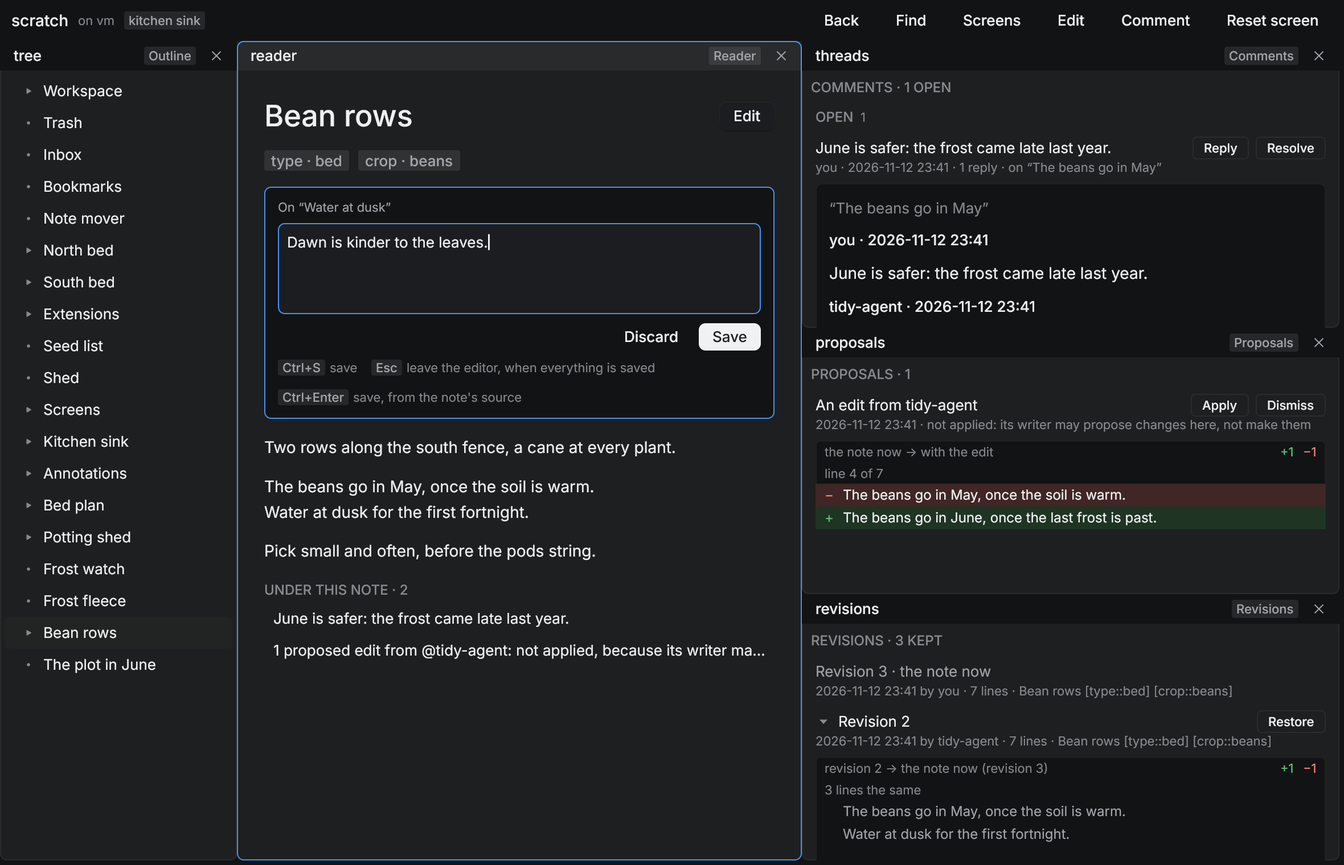
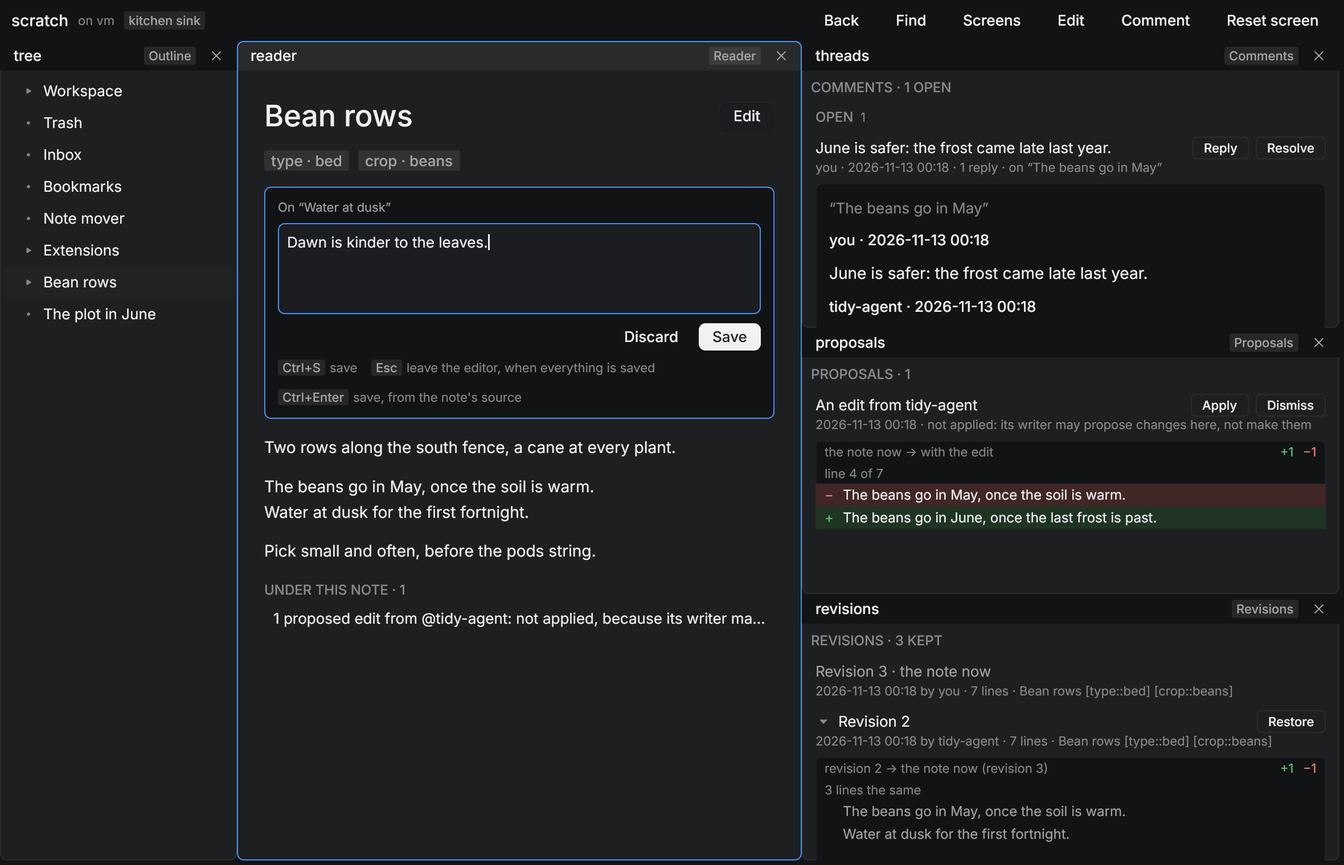
native: the screen-keys scene and its picture; the pages say what the key table reads now
Claude-Session: https://claude.ai/code/session_01YahWSsU53UQFjh3cbq4VFn

diff --git a/packages/native/scenes/about.seed.ts b/packages/native/scenes/about.seed.ts
@@ -4,6 +4,7 @@
 //
 // - "Bean rows": a note with a history (three texts), a comment thread on words of it with a reply, and an edit an
 //   agent proposed beside it. What the comments, proposals and revisions tiles list of it is the service's.
+// - "Seed list": a screen saved as a note, with keys of its own and the list of the keys beside its reader.
 // - "The plot in June" (with a folder): a header image, two pictures (one nobody took), an svg fence and a mermaid
 //   fence. The pictures are drawn here and written into the folder, so the scratch host has files to read.
 import { mkdirSync, writeFileSync } from "node:fs";
@@ -61,5 +62,16 @@ if (pictures) {
     "```",
   ].join("\n"));
 }
+// A screen with keys of its own, saved as a note: a reader beside the list of the keys, which puts that screen's first.
+await ask({ action: "screens.save", mutation: { author: "user" }, spec: {
+  name: "seed-list", title: "Seed list", lands: "reader",
+  toolbar: ["back", "bar.open", "bar.open scope=screens", "screen.reset"],
+  layout: { focus: "reader", root: { t: "split", dir: "row", weights: [0.4, 0.6], kids: [{ t: "leaf", kind: "reader", name: "reader" }, { t: "leaf", kind: "keymap", name: "keys" }] } },
+  keys: [
+    { key: "ctrl+l", action: "bar.open", args: { scope: "screens" }, says: "open the bar on the screens" },
+    { key: "K", action: "tile.focus", tile: "keys", only: ["reader"], says: "the keys to the list of keys" },
+    { key: "B", action: "open", args: { id: beans.id }, says: "open the bean rows" },
+  ],
+} });
 console.log(beans.id);
 process.exit(0);

diff --git a/packages/native/docs/DESIGN.md b/packages/native/docs/DESIGN.md
@@ -12,7 +12,7 @@
 |---|---|---|
 | **Store** | every read, watch, re-ask, stale `last()`, the 64-slot budget; one `Link` per outline and machine | the `Ask`; `peek` lists slots, their tiles and `n/64` |
 | **Action** | every state change; the dispatcher checks the actor against `touches` and records the step | `ActionRow` in outline-core: `id, summary, args, touches, keys, while, menu, examples, answer` |
-| **Key table** | chord to act line, per whereabouts layer | rows `{chord, line, layer, from}` |
+| **Key table** | chord to act line, per whereabouts layer; the open screen's own keys before the rows' | rows `{chord, line, layer, from}` (`from`: `row` or `screen`) |
 | **Layout** | arrangement, focus, wires, policy, floats, folds; `place` | the door's saved tree; `Landing {tile, why}` |
 | **Kind row** | what a tile kind is: a drawer, a source, its fields | the `extensions.list` `tileKinds` row, carried on `screens.list` as `kinds`: `{kind, name, about, drawer \| render \| view \| command, fields, replaces}` |
 | **Drawer** | drawing one answer shape: `page`, `list` (built), `view`, `pty` (not yet) | `{id, about, notes, lists, takesKeys}`; `facts` is what `peek` says of its tile |
@@ -98,8 +98,8 @@ an object, a typed argument) is the block's own ```json fence. `screens.save` is
 
 **Wire, one PROTOCOL bump at the final rebase:**
 - `screens.list` (watched): notes and extension screens, validated, addresses resolved, `problems[]`. The door's `screen-notes.ts` switches to it.
-- `lists.read` (watched, a module of its own: `list-producers.ts`), `from:` a producer: `children`, `search`, `query`, `lanes`, `facets`, `links`, `properties`, `activity`, `clients`, `screens`, and `sources` (the producers as rows). Each answers a `ListAnswer` around a `ListPrimitive`: rows with `chips`, the `act` line a pick runs, and for a tree `depth`, `folds`, `open` (`arrange: tree` joined `list-row.ts`); `open` says which folders are answered. `sources` answers each source as it says of itself (`ListSource`: its parameters, whether a bar lists it, whether its answer carries facets), which is what a client reads. `links` reads a note's groups as a page's `::links` does (`readLinks`): the groups, their labels and "every group when none is named" are outline-core's `link-blocks`. As built it is its own action, not a `site.answer` producer: `site.answer` is bound to a note, and a tree or a search has none. As built (W6, `about-producers.ts` beside the table): `threads`, `proposals`, `revisions` (a note's, by `of`), `actions` (the asker's own action rows, handed over as `actions`, answered as the ways to press them: any door's keys screen) and `components` (every component schema; an open one carries its example lowered through the page's own walk). A row may show something under itself (`ListRow.view`, a page primitive), a press of its own inside a row is a cell with its `act`, and `open` names the rows that are open in any list whose rows fold, not only a tree's folders. A change between two texts is a `diff` primitive (`note-page.ts`), found by the service (`text-diff.ts`). Not built: `sessions` (the service keeps no registry of agent sessions: the door reads them off its own pty tiles, so a producer would list nothing true until W8's host has one).
-- `notes.page`: its row says `watch: "later"` (a module answers it over a turn and keeps the watch) and it is in `WATCHABLE_ACTIONS`, as `screens.list` is. As built in W4: a part is `{type: "part", kind, block, span, line, …, view}`: the note it is written in, its UTF-16 span in that note's text, its first line, the service's word on its answer, and the primitive to draw. A figure is the catalogue primitives outline-core's `figure-primitive.ts` lowers its answered props to (a kind with no form: the service's Markdown, else its lines as `source`); a button is a `button` with the line a press names it by, and the slots its line leaves empty as `needs` (what stops a press: any other word the service has on a button, a look it doesn't read, is said and stops none, as in the door); a box holds the parts written inside it. Every press in a part carries the act line it runs (`act`, stamped by outline-core's `withActs` with the one rule, `actOf`: a list's row, a card, a text, a table's row and cell), a row is keyed by the note it opens, and the notes under the note are the one list too (`under`). Which component a line starts is one function, outline-core's `componentAt`, asked by the published page, `notes.page` and the door's reader. Not built yet: an extension's component and a `::use`'s body as primitives (both are `source`); script parts cached by script, props and deps.
+- `lists.read` (watched, a module of its own: `list-producers.ts`), `from:` a producer: `children`, `search`, `query`, `lanes`, `facets`, `links`, `properties`, `activity`, `clients`, `screens`, and `sources` (the producers as rows). Each answers a `ListAnswer` around a `ListPrimitive`: rows with `chips`, the `act` line a pick runs, and for a tree `depth`, `folds`, `open` (`arrange: tree` joined `list-row.ts`); `open` says which folders are answered. `sources` answers each source as it says of itself (`ListSource`: its parameters, whether a bar lists it, whether its answer carries facets), which is what a client reads. `links` reads a note's groups as a page's `::links` does (`readLinks`): the groups, their labels and "every group when none is named" are outline-core's `link-blocks`. As built it is its own action, not a `site.answer` producer: `site.answer` is bound to a note, and a tree or a search has none. As built (W6, `about-producers.ts` beside the table): `threads`, `proposals`, `revisions` (a note's, by `of`), `actions` (the asker's own action rows, handed over as `actions`, answered as the ways to press them, the keys of the screen the asker names first: any door's keys screen) and `components` (every component schema; an open one carries its example lowered through the page's own walk). A row may show something under itself (`ListRow.view`, a page primitive), a press of its own inside a row is a cell with its `act`, and `open` names the rows that are open in any list whose rows fold, not only a tree's folders. A change between two texts is a `diff` primitive (`note-page.ts`), found by the service (`text-diff.ts`). Not built: `sessions` (the service keeps no registry of agent sessions: the door reads them off its own pty tiles, so a producer would list nothing true until W8's host has one).
+- `notes.page`: its row says `watch: "later"` (a module answers it over a turn and keeps the watch) and it is in `WATCHABLE_ACTIONS`, as `screens.list` is. As built in W4: a part is `{type: "part", kind, block, span, line, …, view}`: the note it is written in, its UTF-16 span in that note's text, its first line, the service's word on its answer, and the primitive to draw. A figure is the catalogue primitives outline-core's `figure-primitive.ts` lowers its answered props to (a kind with no form: the service's Markdown, else its lines as `source`); a button is a `button` with the line a press names it by, and the slots its line leaves empty as `needs` (what stops a press: any other word the service has on a button, a look it doesn't read, is said and stops none, as in the door); a box holds the parts written inside it. Every press in a part carries the act line it runs (`act`, stamped by outline-core's `withActs` with the one rule, `actOf`: a list's row, a card, a text, a table's row and cell), a row is keyed by the note it opens, and the notes under the note are the one list too (`under`). Which component a line starts is one function, outline-core's `componentAt`, asked by the published page, `notes.page` and the door's reader. A comment on the note is a block under it and no note of it (outline-core's `isMarkType`): `children` and `under` leave it out, as the published page does, and `lists.read from=threads` has it (W6). Not built yet: an extension's component and a `::use`'s body as primitives (both are `source`); script parts cached by script, props and deps.
 - `completion.rows` takes `{text, cursor}` in place of a detected `target` (W5, `outliner/src/completion-at.ts`): the host runs `completionTargetAtCursor`, asks its sources as for any client, merges with `mergeSourceAnswers` and answers `{token, rows, heading, message, pickKey}`: the token to replace (UTF-16 offsets of the text) and rows ready to draw and to write (`insert`, `select`, `pick`). What the list says of itself is outline-core's `completionSaid`, which the door's completer calls too. Not built yet: a row that makes something when chosen (a page nobody wrote, an anchor on a heading, a new component) is left out of this form, and the door's own sources (its actions, a fence's settings, a button's steps) have no thin form.
 - `draft.patch` for a holder that places nothing (W5, `outliner/src/draft-place.ts`; PROBES §10): a new ask kind, `place`, beside `read`, `patch` and `revert`. Asked to `patch`, the native window answers with its draft as it stands; the service decides with outline-core's `placeDraftPatch` (the door's guard, moved there, and still what the door runs over its own buffer) and sends back the spans to replace, taken only while the text is the version they were found in. No hold flag and no client kind: the holder says it by what it answers.
 - `events.subscribe` takes client kind `native` (W4): the window registers as itself and hears `scripts.act` and `scripts.ended`, so an act a script has for a window reaches its dispatcher and is answered (`scripts.answer`). Not built yet: `door.act` aimed at a native window.
@@ -114,7 +114,7 @@ an object, a typed argument) is the block's own ```json fence. `screens.save` is
 | Who a write is recorded as | `Store::write` stamps `mutation.actorId` |
 | Which tile has focus | `Layout.focus`, changed only in `apply` (`Op::Focus`, and what a load leaves); an agent's act never moves it. `keys::follow`, in `poll`, is the one reconciler and the only caller of `Tx::focus`: a press inside a tile becomes `tile.focus`, and the tile the layout names is the one Rune focuses. Each tile's root holds the keys through `keys::tile` |
 | Who has the keys | `App::person() -> Whereabouts`: the bar while it is open, else the tile `Layout.focus` names, in its draft when a block is being written there, in that draft's completion list while it is open (a layer over the draft's: `Layer::stack`; one with nothing to choose from keeps only the key that puts it away). (A float and a `takes_keys` tile join when W8 builds them) |
-| Which keys mean what | `keys.rs`: row defaults. Not built yet: the spec's `keys`, then the door's `keybindings.json` in its own chord names (`ctrl+w q`) |
+| Which keys mean what | `keys.rs`: the open screen's own keys first while a tile has them (`App::screen_keys`, its spec's `keys` as served, each key's name read as a chord by `chord_named`, held to outline-core's `isKeyName` by `core-contract.json`; `only` and `unless` are the kinds tiles carry, resolved by `screens.list`), then the row defaults. Not built yet: the door's `keybindings.json` in its own chord names (`ctrl+w q`) |
 | How a field passes keys | one `field()` adapter in `keys.rs`: table first, text second, unhandled up |
 | Where an open lands | `layout::place`, in the door's order (own wire, opens-into, home, flow next, first unpinned reader). The screen's `lands` reaches it as `Ctx.lands` for an open from outside any tile, and a new note asks it with the screen's `newNote` rule. `nav::land` is the one caller. Not built yet: an activation's `where` as an open rule (`actOf` writes `open id=` alone, and `open` takes no rule) |
 | Where a screen's `lands` points | `Layout::lands`: a tile's name, else a container's key (the screen validator's reading). Placement reads it, and `App::landing` (the reader an act about the open note means, and a list's home) |
@@ -147,7 +147,7 @@ an object, a typed argument) is the block's own ```json fence. `screens.save` is
 | Where a comment's words are in the note | the service (`annotations.batch`'s `block-comment`, outline-core's `findPassage`): the window sends the words quoted and anchors nothing |
 | Which reader a press in a list about a note acts in | `App::act_from` in the dispatcher, asking `App::home_of` (the list's `source`, else the reader when it follows) |
 | Which row of a list is open | the tile's own state (`TileUi.unfolded`), handed to the service as `open`; `list.pick` folds a row that only folds, in a list whose source reads `open` |
-| What the keys screen lists | the action rows (`actions::rows`, handed to `lists.read from=actions` in `App::ask_of`): the key table (`keys.rs`) reads the same rows. Not built yet: a screen's own keys and `keybindings.json`, in either |
+| What the keys screen lists | the action rows (`actions::rows`, handed to `lists.read from=actions` in `App::ask_of`): the key table (`keys.rs`) reads the same rows. The open screen's own keys are listed first: the asker names its screen (`screen`), and the producer reads that screen's `keys` from `screens.list`, the spec the key table reads. Not built yet: `keybindings.json`, in either |
 | Meaning of notes | the service |
 
 ## 5. Agents, tests, headless
@@ -160,7 +160,7 @@ an object, a typed argument) is the block's own ```json fence. `screens.save` is
   - **Garden over `Standin`,** asserting the wire.
   - **Window tests** with a parity table: every row runs by its chord, its bar row pressed and its act line, giving one step record.
   - **Drafts, as a person works** (`drafts.rs`, W5): typed, completed and saved by keys through the window; held, read and patched by lines the host says; kept as typed and found back by a second window on the same file. The sentence whole runs against a scratch host in `live.rs`, with the agent over the control socket.
-  - **`one_owner.rs`:** `place(` only in the open's own file; `Op::` only in `actions/` and `layout.rs`; `.on_key(` and `Tx::focus` only in `keys.rs`; `virtual_rows` only in `list.rs`; the arrangement written and a load issued only in `actions/layout.rs`; no refusal for whose a thing is in an action's run; an address read only by the layout's resolver; no outline or host setting read by the window. Since W3: no kind catalogue, compiled screen or list read but `lists.read`, no act line written for a list's row, and Rune named only by what draws. Since W4: a primitive is built only by the registry, and no builder or drawer reads what a part was written as. Since sweep 2: one writer of a line's word, one drawer of a list, no activation read and no open written anywhere, `App::target` the one chooser of a tile, `lands` read one way, and Rune named only behind the seam with no file excepted (a field's text is `keys::Text`, the decoded pictures `tiles::picture::Pictures`, a waker `client::Waker`). Since W6: each write about a note asked by its own action in one file, no read of a note's threads, proposals or revisions but `lists.read`, no act line written for a row's own press, one builder of a change that compares nothing, one session type whatever is written, a selection read only by the page drawer, and the action rows handed over in one place. Since W5: one session a block (no whole-note editor), the hold asked only by the draft's actions and answered only by the store, `completion.rows` asked only by the session with the text and the caret, no passage or token read anywhere in the window, one `map_cursor`, and nothing about a draft in the open's file. `owners.rs` and `sweep2.rs` hold the same by what the window does.
+  - **`one_owner.rs`:** `place(` only in the open's own file; `Op::` only in `actions/` and `layout.rs`; `.on_key(` and `Tx::focus` only in `keys.rs`; `virtual_rows` only in `list.rs`; the arrangement written and a load issued only in `actions/layout.rs`; no refusal for whose a thing is in an action's run; an address read only by the layout's resolver; no outline or host setting read by the window. Since W3: no kind catalogue, compiled screen or list read but `lists.read`, no act line written for a list's row, and Rune named only by what draws. Since W4: a primitive is built only by the registry, and no builder or drawer reads what a part was written as. Since sweep 2: one writer of a line's word, one drawer of a list, no activation read and no open written anywhere, `App::target` the one chooser of a tile, `lands` read one way, and Rune named only behind the seam with no file excepted (a field's text is `keys::Text`, the decoded pictures `tiles::picture::Pictures`, a waker `client::Waker`). Since W6: each write about a note asked by its own action in one file, no read of a note's threads, proposals or revisions but `lists.read`, no act line written for a row's own press, one builder of a change that compares nothing, one session type whatever is written, a selection read only by the page drawer, the action rows handed over in one place, and a screen's keys read only by the key table. Since W5: one session a block (no whole-note editor), the hold asked only by the draft's actions and answered only by the store, `completion.rows` asked only by the session with the text and the caret, no passage or token read anywhere in the window, one `map_cursor`, and nothing about a draft in the open's file. `owners.rs` and `sweep2.rs` hold the same by what the window does.
 - **Frame cost:** each tile draws in `memo(tile.id, version)` over its spec, slot generations, focus, cursor, scroll and draft revision.
 - **Every visible wave** carries a scene and its headless snapshot under `docs/`. Since W6 there is a `kitchen` screen in `extensions/screens` (a reader with the tiles about its note beside it), which a wave adds its visible parts to. Not built yet: a wiretext Sketch for each, and the earlier waves' parts (a board's lanes, a table, the bar) on the kitchen screen. Tests split into `src/tests/*.rs`; actions and drawers register per module.
 

diff --git a/packages/native/README.md b/packages/native/README.md
@@ -14,6 +14,7 @@ ships no screen and no tile kind of its own: the ones every door ships are one e
 
 ![About a note, on the kitchen screen: a comment being written on words of it, its thread with a reply, an agent's proposed edit as the lines the service found, and an earlier revision opened to what changed since, dark](docs/about-dark.png)
 ![The keys screen: every way to press an action, a list made from the actions' own rows, dark](docs/keys-dark.png)
+![A screen saved as a note with keys of its own: the list of the keys beside its reader puts that screen's first, dark](docs/screenkeys-dark.png)
 ![The library: the components under their groups, one picked with its own example as written and as drawn, dark](docs/library-dark.png)
 
 ![A note with a query-backed component, dark](docs/note-dark.png)
@@ -117,6 +118,11 @@ keycap on a button, the bar's rows and `actions` over the control socket all rea
 | `mod+shift+s` | `screen.save` | everywhere | save the arrangement as its screen |
 | `mod+shift+r` | `screen.reset` | everywhere | put the arrangement back as its screen has it |
 <!-- /keys -->
+
+A screen adds its own (its spec's `keys`, as a screen note or an extension writes them: `ctrl+l`, `L`, `esc`, the
+names screens give keys). While that screen is open and a tile has the keys they are tried first, each running its
+action as the person, in the tile it names, over the kinds of tile it says; the keys list on that screen
+(`kind: keymap`) puts them first, under "this screen".
 
 `mod` is ⌘ on a Mac and Ctrl elsewhere. Where: a chord that is a tile's (`alt+up`) is the editor's own while a note
 is being written, and Esc closes one thing at a time (the bar, then a completion list, then the editor, then the
@@ -276,8 +282,10 @@ src/ (Rust, Rune)                                      the outline host
 - **A press in a list about a note is about the reader it follows** (`App::act_from`): Reply and Restore act in
   the reader whose note the list is of, as the list's opens land there.
 - **The keys screen has no table of its own.** The window hands `lists.read from=actions` its action rows (where a
-  list is asked, `App::ask_of`) and the service answers them as rows, the line each key runs written by
-  outline-core's one writer. The key table and the screen are read from the same rows.
+  list is asked, `App::ask_of`) and the name of the screen it has open, and the service answers them as rows, the
+  line each key runs written by outline-core's one writer: that screen's own keys first (the service's spec, the
+  one the key table reads through `App::screen_keys`), then the actions'. The key table and the list are read from
+  the same rows, and a test holds them equal against a real service.
 - **It holds no grammar and names no property, kind or screen.** A tile's body is `rune-kit`'s `Markdown`, `Badge` and `Button`;
   `bar.rs` is its `Dialog` over the one list; every field is `keys.rs`'s; the toolbar is the screen's own list of
   act lines, each button labelled from its action's row. No drawer matches a figure's kind or a component's name:
@@ -400,7 +408,7 @@ target/debug/ep0ch-native --snap out.png -- --ws scratch --screen garden-work   
 ![A saved custom screen: two readers, the tree in a tab with the backlinks](docs/screen-dark.png)
 
 A scene is a file of act lines, `scenes/<name>.act`: `arrange`, `bar`, `edit`, `find`, `query`, `screens`, `board`,
-`navigator`, `lastcall`, `table`, `keys`, `library`, and `plan`, `figures`, `callouts` (which open notes of the showcase outline by
+`navigator`, `lastcall`, `table`, `keys`, `library`, `screenkeys` (a screen with keys of its own, which `about.seed.ts` saves as a note), and `plan`, `figures`, `callouts` (which open notes of the showcase outline by
 title), and `parts`, `links` and `draft` (notes `bun scenes/parts.seed.ts <a scratch host's socket> <outline>` writes: figures, a
 box, a live list, two buttons, the first pressed; a note whose `::links` and the links tile beside it list the
 same groups; and a note written in place, with a name begun and an agent's edit landed above it), and `about` and
@@ -456,7 +464,7 @@ toolbar button is
   "resolve against the note now" (the outline agent's) has no press here.
 - Revisions: one is opened against the note as it is now, never against the one after it; the list isn't walked by
   keys (older, newer), and a change opens under its row rather than beside the note.
-- The keys screen lists the rows' own keys: nothing is rebound there. The library draws each component's one
+- The keys screen lists the rows' own keys and the open screen's: nothing is rebound there. The library draws each component's one
   example, not its properties one value at a time, its grids or every combination.
 - The window draws no list of agent sessions: the service keeps none to list (the door reads them off its own
   terminal tiles).
@@ -474,8 +482,9 @@ toolbar button is
 - Switching outlines from inside the window; the outline is named when it starts.
 - A connection keeps at most 64 watched answers (the host's bound): the page, the bar's query and one per unfolded
   folder. Past the budget an answer is read unwatched and registered when a key is free (`peek` says which).
-- Keys are the rows' defaults: a screen's own keys and the person's `keybindings.json` aren't read yet, so the
-  keys screen lists neither.
+- Keys are the rows' defaults and the open screen's own: the person's `keybindings.json` isn't read yet, so nothing
+  is rebound and the keys screen lists no key of theirs. A screen's key named with Hyper is listed and has no chord
+  here.
 - Extensions aren't installed or uninstalled from this window's bar yet (the door's bar and `ep0ch act
   extensions.install id=screens` do it); with the screens extension uninstalled the window says there is no screen
   to open on, and opens when it is back.

diff --git a/packages/native/docs/PROBES.md b/packages/native/docs/PROBES.md
@@ -491,6 +491,15 @@ Three things turned up on the way, each fixed:
   the theme switches.
 - **A press on a row with something drawn under it** landed on what was under it: the row's own line is keyed
   `…/row/<id>/head`, which is what a test, a script and an agent press once a row is open.
+- **A comment was listed as a note under the note it is on.** A comment is a block under its note, and `notes.page`
+  listed every block there. A mark is no row of its note (outline-core's `isMarkType`, as the published page reads
+  it): `notes.page` leaves comments out of `children` and `under`, and the threads list has them.
+
+**A screen's keys are named as the door names keys, and read as chords here.** A screen's `keys` name a key by the
+door's one name for it (`isKeyName`: `l`, `L`, `,`, `ctrl+l`, `esc`, `pgup`). Rune's `Chord::parse` reads most of
+them as written; what differs is small and in one function (`keys::chord_named`): a capital is Shift with its letter
+(Rune reads a chord's letters in either case), and the two pages are `pageup` and `pagedown`. A modifier alone and
+Hyper have no chord. `core-contract.json`'s `keyNames` lists every name there is, and a cargo test reads each.
 
 ## The contract tables
 
